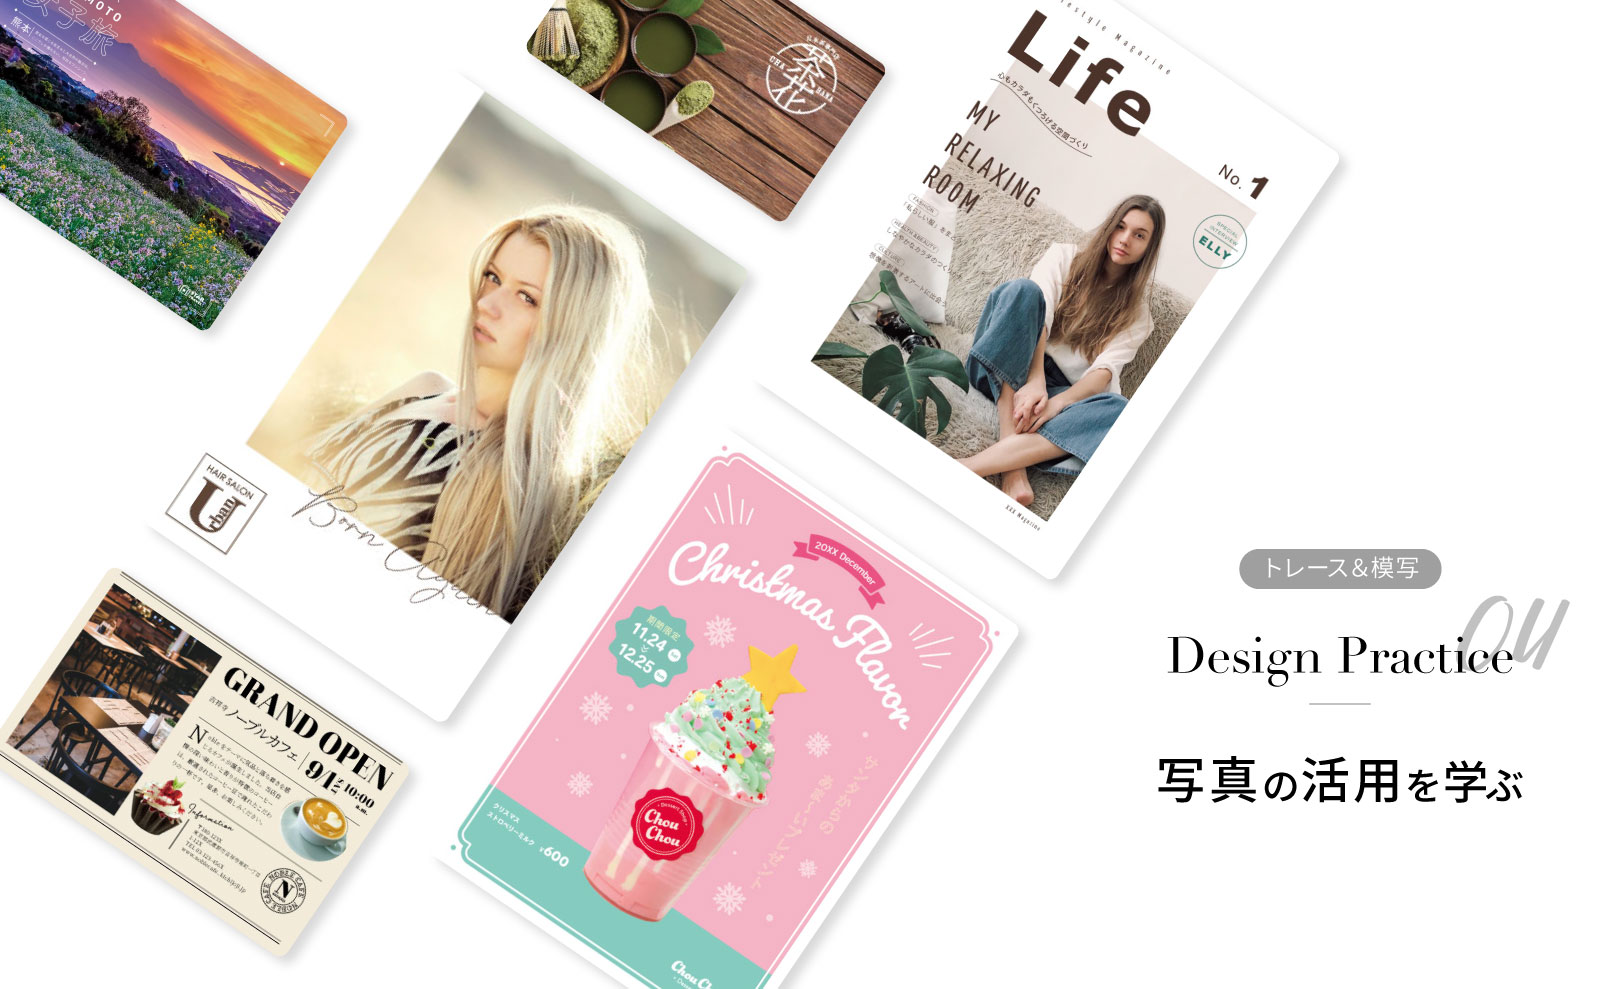
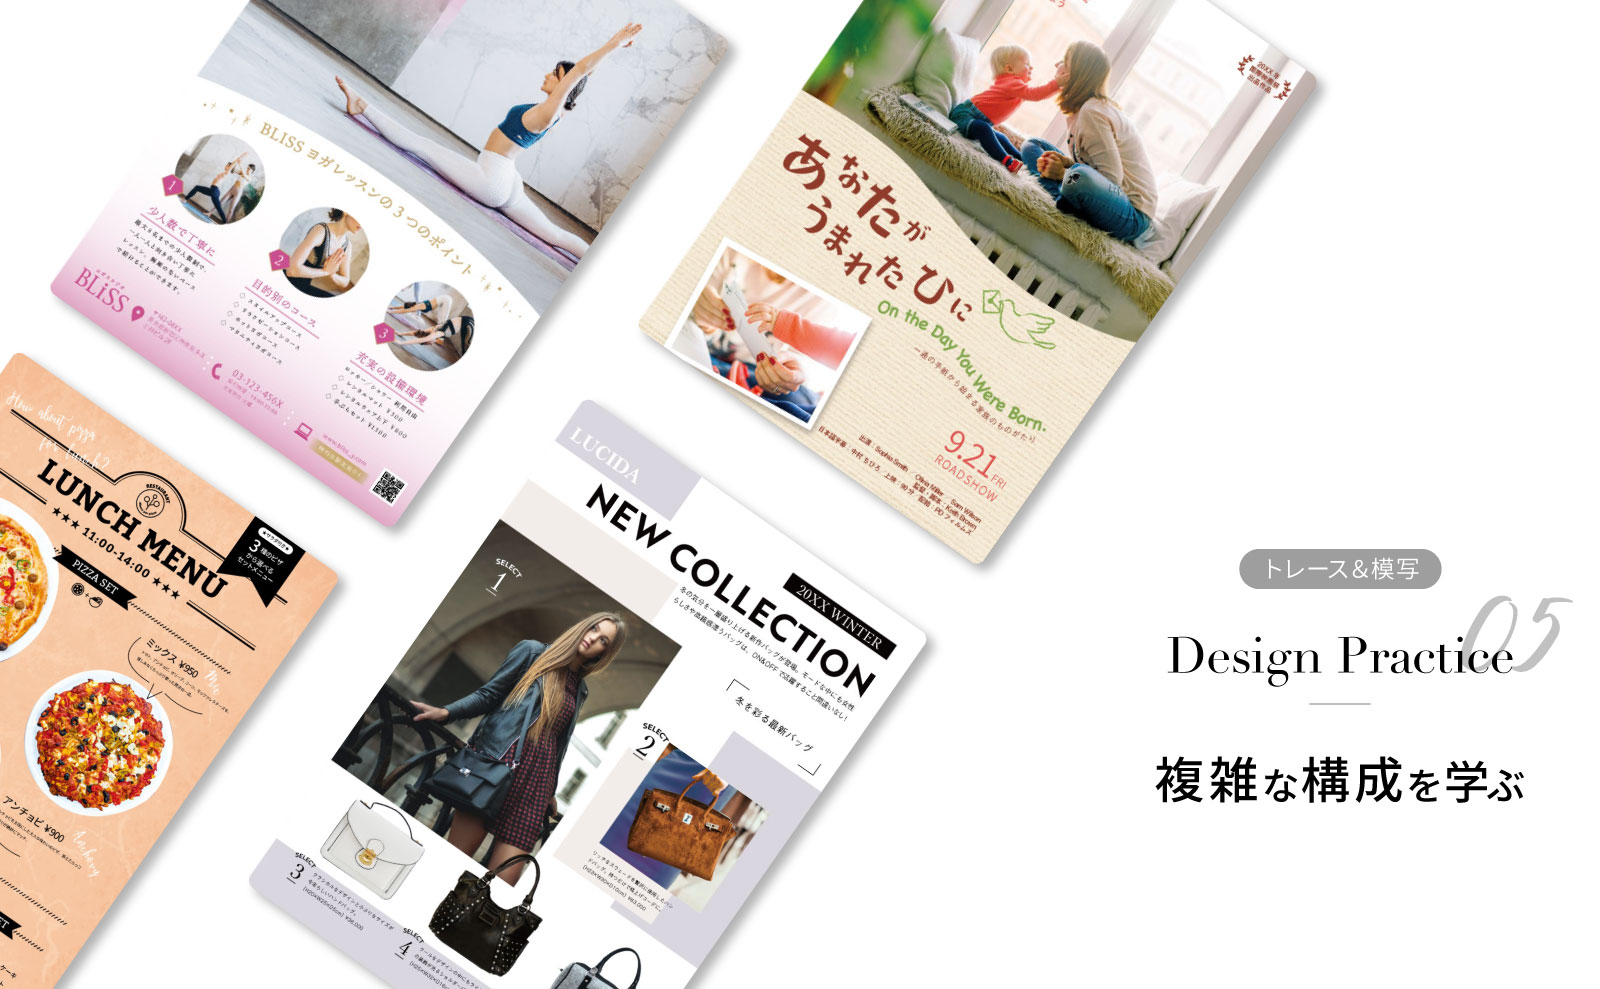
update post

diff --git a/content/blog/design-trace-05/index.md b/content/blog/design-trace-05/index.md
@@ -1,62 +1,50 @@
 ---
-title: デザインのドリル④ トレースで、複雑なレイアウトを学ぶ
+title: デザインのドリル⑤ トレースで、複雑なレイアウトを学ぶ
 date: 2020-08-28
+featured: icatch-design-trace-05.jpg
 category: Design
 tags:
   - デザイン独学
-status: draft
 ---
 
 「<a href="https://amzn.to/34u9ts6" target="_blank" rel="nofollow">トレース＆模写で学ぶ　デザインのドリル</a>」を使って、デザイントレースの練習した記録です。
 
 ## 写真の効果的な使い方
 
-### Lesson 21 フリーマガジンの表紙
+### Lesson 27 雑誌の特集記事
 
-![演習２１フリーマガジンの表紙](ss-trace-21.jpg)
+![演習２７雑誌の特集記事](ss-trace-27.jpg)
 
-* 写真のトリミングは、被写体の配置をバランスよく
-* 写真の色（茶、緑）を文字色に使う
-* 細く、ゆるやかな文字でリラックス感を演出
+学んだこと／気づいたこと
 
-### Lesson22 旅行代理店のポスター
+* 模写中は気づかなかったけれど、グリッドでレイアウトをしているので、まとまりがよく見える
 
-![演習２２旅行代理店のポスター](ss-trace-22.jpg)
+### Lesson28 映画のチラシ
 
-* 写真を全面に配置させて迫力が出る
-* 文字は白で、写真の邪魔をさせない
+![演習２８映画のチラシ](ss-trace-28.jpg)
 
-### Lesson23 スイーツ店のチラシ
+学んだこと／気づいたこと
 
-![演習２３スイーツ店のチラシ](ss-trace-23.jpg)
+* 読ませたい文字は大きくしている。
+* 写真を波に切り抜い当たり、文字を波にすることで、柔らかい印象。
+* 波線の文字の書き方を学んだ
 
-* 写真を切り抜くと背景の情報がなくなり、商品に注目がいく。
-* 商品に合わせた色とフォント。
-* 飾りで周りを華やかに。
+### Lesson29 レストランのメニュー
 
-### Lesson24 カフェ新規開店のDM
+![演習２９レストランのメニュー](ss-trace-29.jpg)
 
-![演習２４カフェ新規開店のDM](ss-trace-24.jpg)
+学んだこと／気づいたこと
 
-* 店内写真は四角、商品は切り抜きと、目的に応じて使い分け。
-* 整頓させると上品な印象を与えることができる
-* 商品やInformationをずらして配置させることで抜け感がでる。
+* 三角形に大、中、小と、商品を並べるのがバランス良い
+* 斜めの罫線の線を作り方がわかった！
 
-### Lesson25 ショップカード
-商品とロゴを組み合わせてショップカードを作ってみました。
 
-![演習２５ショップカード](ss-trace-25.jpg)
+### Lesson30 ヨガ教室のチラシ
 
-* 左半分は商品を主体に、右上にロゴ配置させてバランスよく
-* 写真を邪魔せず、しっかりとロゴが見えるように白をチョイス。
+![演習３０ヨガ教室のチラシ](ss-trace-30.jpg)
 
-作ってみるとロゴはもう少し小さくてもよかったかも？
+学んだこと／気づいたこと
 
-### Lesson26 ヘアサロンのDM
-
-写真、ロゴ、キャッチコピーでチラシを作ります。
-
-![演習２６ヘアサロンのDM](ss-trace-26.jpg)
-
-* 作ってみて、よく考えずに写真とフォントを並べた感じになってしまった…。
-
+* 透明なグラデーションで上品かつ軽やかな印象を与えられる。
+* 同じ形の写真も引きだったり、寄ってたり、変えるとことでメリハリがある
+* グラデーションをかける方法を学んだ！

diff --git a/content/blog/diary-202008/index.md b/content/blog/diary-202008/index.md
@@ -2,6 +2,7 @@
 title: 【活動記録】完璧ではなくても、まずやってみる8月
 date: 2020-08-31T21:53:29+09:00
 category: Lifestyle
+featured: icatch-20200831:jpg
 tags:
     - 活動記録
 status: draft
@@ -75,6 +76,9 @@ Gatsbyを使い始めたのは先月。
 * [デザインのドリル③ トレースで、フォントの印象的な見せ方を学ぶ](/design-trace-03/)
 
 * [デザインのドリル④ トレースで、写真の活かし方を学ぶ](/design-trace-04/)
+
+* [デザインのドリル⑤ トレースで、複雑な構成を学ぶ](/design-trace-05/)
+
 </div>
 
 ３０個のチラシやバナーを真似ることで自分でも成長を実感できました。
@@ -96,7 +100,7 @@ Gatsbyを使い始めたのは先月。
 
 どういう使い分けたらいいかわからなかったので、まずはそれぞれ目的を決めて運用していくことにしました。
 
-<a href="https://www.instagram.com/emmieworks/" target="_blank" rel="noopener noreferrer">Instagram</a>は、制作物や制作過程を見せる場所に。自分が見ていてテンションがある美術館にしたいなと思います。
+<a href="https://www.instagram.com/emmieworks/" target="_blank" rel="noopener noreferrer">Instagram</a>は、制作物や制作過程を見せる場所に。自分が見ていてテンションがある美術館のようにしたいなと思います。
 
 
 * <a href="https://twitter.com/EmiMoment" target="_blank" rel="noopener noreferrer">Twitter</a>はふだんの活動内容や学びを記録する場所に。

diff --git a/content/blog/design-trace/index.md b/content/blog/design-trace/index.md
@@ -58,9 +58,9 @@ tags:
 
 * [デザインのドリル③ トレースで、フォントの印象的な見せ方を学ぶ](/design-trace-03/)
 
-* デザインのドリル④ トレースで、写真のトリミング・配置を学ぶ
+* [デザインのドリル④ トレースで、写真のトリミング・配置を学ぶ](/design-trace-04/)
 
-* デザインのドリル⑤　トレースで、情報の整理／配置を学ぶ
+* [デザインのドリル⑤　トレースで、情報の整理／配置を学ぶ](/design-trace-05/)
 
 </div>
 
